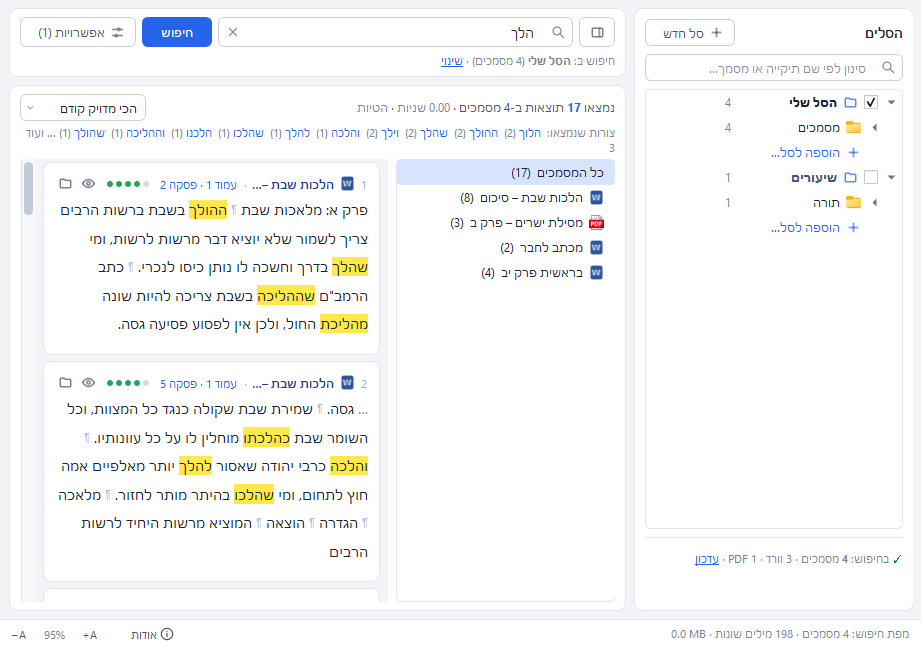
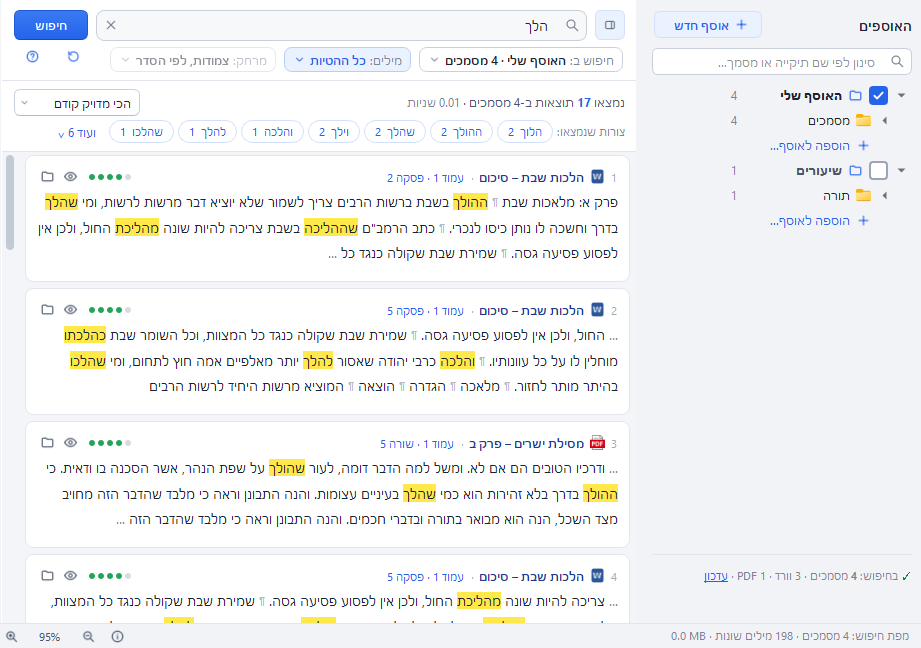
word-search site: real Windows screenshots of the new design (options chip, collections, results)
Claude-Session: https://claude.ai/code/session_01XKwsMm7EMvBXZ1QsWhtjE6

diff --git a/word-search/site/index.html b/word-search/site/index.html
@@ -91,6 +91,10 @@
         <dd>שאילתה במירכאות, <span class="q">"איסור ייחוד"</span>, מחפשת את המילים צמודות ובסדר הזה, בלי קשר להגדרות. בנוסף יש כוכבית (<span class="q">הלכ*</span>), סימן שאלה, או (<span class="q">משה|אהרן</span>) ושלילה (<span class="q">שבת -חול</span>).</dd>
       </div>
     </dl>
+    <figure class="plate options-plate">
+      <img src="img/shot-options.png" width="640" height="336" alt="שורת השבבים מתחת לשדה החיפוש: חיפוש ב, מילים ומרחק. החלונית של מילים פתוחה ובה שני סולמות, צורות המילה וכתיב, עם דוגמה מסומנת בצהוב">
+      <figcaption><span class="fig-n">תמונה א׳</span> כל ההגדרות בשורה אחת מתחת לשדה החיפוש: <span class="q">חיפוש ב:</span>, <span class="q">מילים:</span> ו<span class="q">מרחק:</span>. כאן פתוח השבב <span class="q">מילים</span>.</figcaption>
+    </figure>
   </div>
   <aside class="rashi" aria-label="הערה">
     <p class="note-label">הערה</p>
@@ -113,7 +117,7 @@
   </div>
   <figure class="plate">
     <img src="img/shot-baskets.png" width="921" height="648" alt="חלון התוכנה בחלונות: בצד ימין שני אוספים, האוסף שלי ושיעורים, עם התיקיות ומספר המסמכים בכל אחת, ובמרכז תוצאות חיפוש">
-    <figcaption><span class="fig-n">תמונה א׳</span> שני אוספים בצד ימין. <span class="q">האוסף שלי</span> מסומן ולכן מחפשים בו, ו<span class="q">שיעורים</span> לא. מעל התוצאות כתוב איפה מחפשים.</figcaption>
+    <figcaption><span class="fig-n">תמונה ב׳</span> שני אוספים בצד ימין. <span class="q">האוסף שלי</span> מסומן ולכן מחפשים בו, ו<span class="q">שיעורים</span> לא. השבב <span class="q">חיפוש ב:</span> מראה את אותה בחירה.</figcaption>
   </figure>
 </section>
 
@@ -128,8 +132,8 @@
     <p>לחיצה על תוצאה פותחת את המסמך. בחלונות עם וורד מותקן הוא נפתח בוורד, מגיע לשורה והמילים מסומנות. בקובץ PDF נפתח צופה מובנה בעמוד הנכון. בלי וורד, או במק ובלינוקס, נפתח מציג מובנה שגולל למקום.</p>
   </div>
   <figure class="plate">
-    <img src="img/shot-results.png" width="616" height="520" alt="תוצאות חיפוש: מעל הרשימה הצורות שנמצאו, ובכל תוצאה קטע טקסט עם מילים מסומנות בצהוב, שם המסמך, העמוד והפסקה. לצד הרשימה סינון לפי מסמך">
-    <figcaption><span class="fig-n">תמונה ב׳</span> חיפוש <span class="q">הלך</span> עם הטיות: 17 תוצאות בארבעה מסמכים. מצולם בחלונות.</figcaption>
+    <img src="img/shot-results.png" width="640" height="524" alt="תוצאות חיפוש: מעל הרשימה הסיכום, המיון והצורות שנמצאו כשבבים, ובכל תוצאה קטע טקסט עם מילים מסומנות בצהוב, שם המסמך, העמוד והפסקה">
+    <figcaption><span class="fig-n">תמונה ג׳</span> חיפוש <span class="q">הלך</span> עם הטיות: 17 תוצאות בארבעה מסמכים, והצורות שנמצאו בשורה אחת מעל. מצולם בחלונות.</figcaption>
   </figure>
 </section>
 

diff --git a/word-search/site/css/site.css b/word-search/site/css/site.css
@@ -252,6 +252,7 @@ h2 { font-size: clamp(1.75rem, 1.3rem + 1.3vw, 2.3rem); line-height: 1.2; margin
 .daf-plate.rev > .plate { justify-self: center; }
 
 .plate { margin: 0; }
+.options-plate { margin-top: 1.6rem; max-width: 640px; }
 .plate img, .plate video { border: 1px solid var(--ink); background: #fff; }
 .plate figcaption {
   font: 400 1rem/1.55 var(--note);
